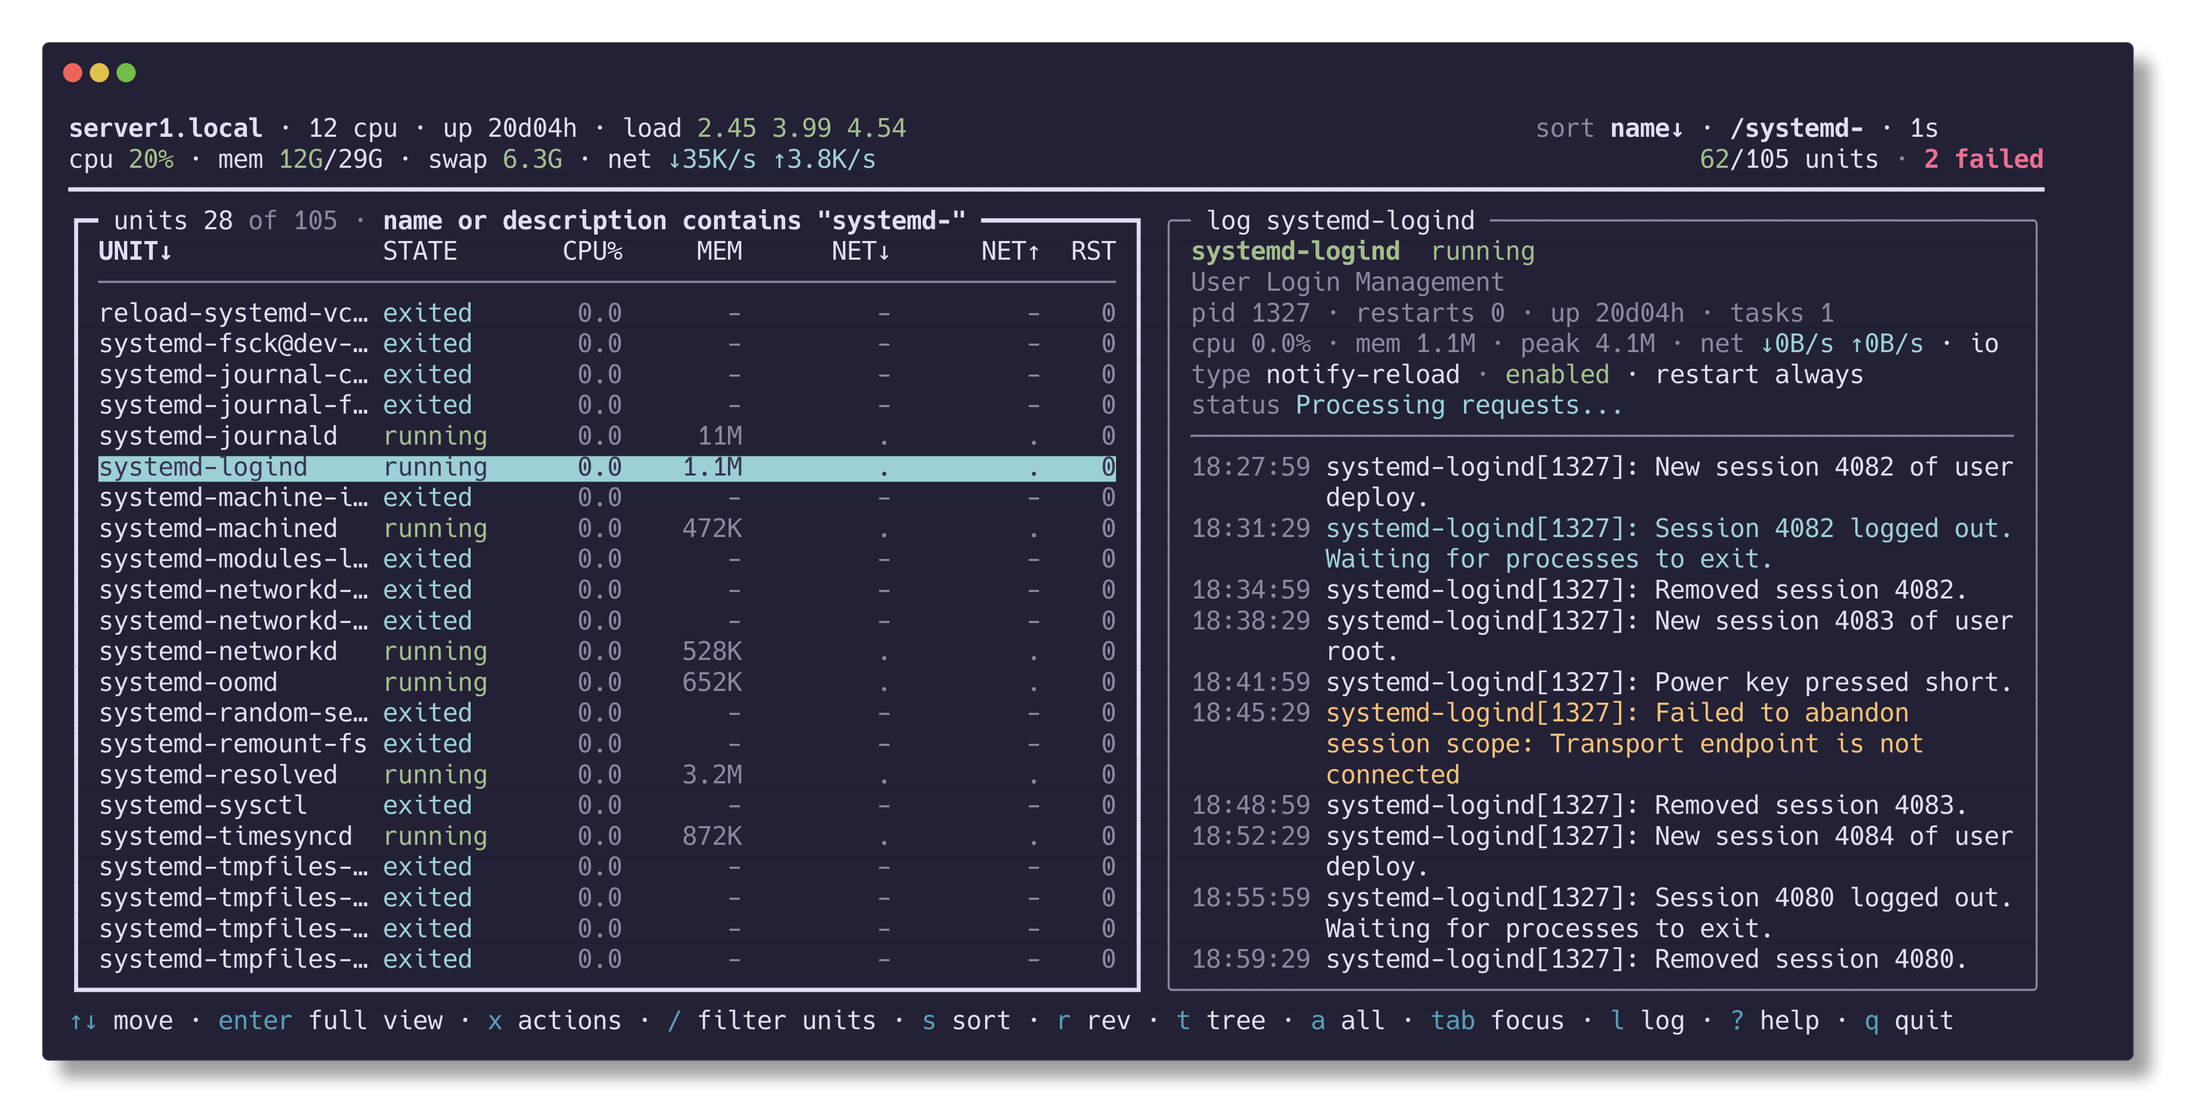
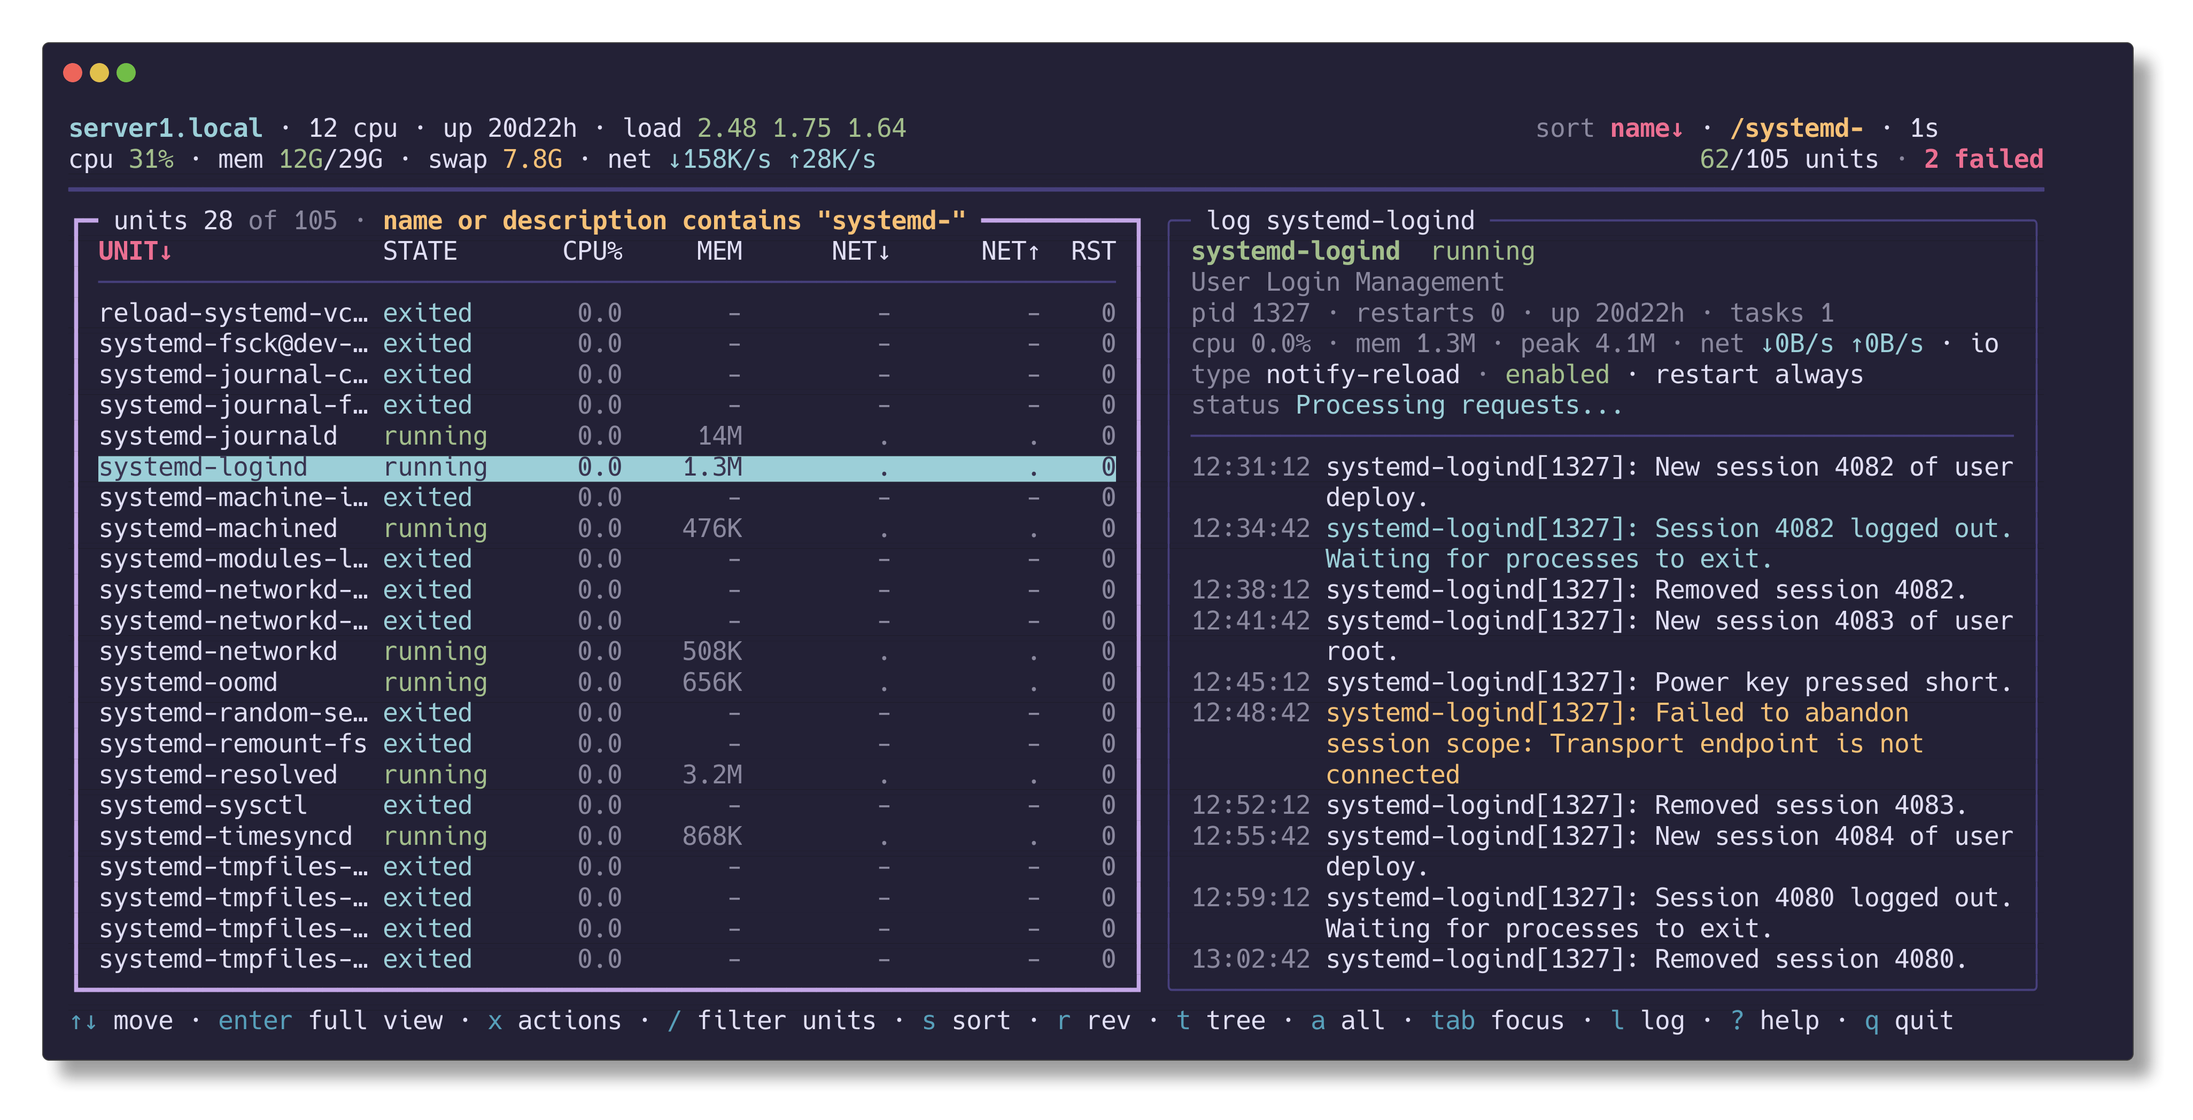
Put colour back where it costs nothing to read
The previous commit took colour off everything, which was more than the
problem needed: a frame, a spinner and a rule are not read, so a theme that
renders them weakly costs nothing — the focused frame is a heavier glyph
than the unfocused one either way. Magenta goes back on the focused frame,
the menu box, the spinners and the editor caret; colour 8 goes back on the
rules and the unfocused frame; the filter is yellow and bold again, which
is words and so a knowing exception, made on the grounds that a filter is a
mode you have to notice you are in.

The sorted column's title now says which way it sorts — red for high to
low, green for low to high, in the table and in the header's sort chip.
This is the one place those two mean a direction rather than health, and
the arrow beside them says the same thing, so nothing depends on reading
the colour.

The host name is cyan and bold, in the header and on the connecting screen:
it is the one heading worth a hue because it answers which machine you are
looking at, and cyan sits far from both the foreground and the magenta the
frames now use. On the startup screen the plain string is truncated first
and only what survives is coloured, since a narrow terminal eats the host
name from the right and the split can land inside the lead.

What stays colourless is what must be read: the remaining headings, column
titles, labels, timestamps, idle values, unit and slice names, log lines.

diff --git a/src/theme.go b/src/theme.go
@@ -7,39 +7,62 @@ import "github.com/charmbracelet/lipgloss"
 // says it is, so unitop matches the rest of their terminal and needs no
 // light/dark handling of its own.
 //
-// Colour is only ever *semantic* here. Five hues carry meaning:
+// Colour never carries something you have to *read*. Five hues carry meaning:
 //
-//	green   healthy, running
-//	yellow  in transition, or a number worth watching
-//	red     failed, or a number that is too high
+//	green   healthy, running — and a column sorted low to high
+//	yellow  in transition, a number worth watching, and the active filter
+//	red     failed, a number that is too high — and sorted high to low
 //	cyan    finished cleanly, and rates
 //	blue    keys and interactive hints
 //
-// Structure — headings, the sorted column, the focused frame, the filter —
-// is carried by *weight* instead: bold against faint, both on the terminal's
-// own foreground. That is not a stylistic preference, it is the only thing
-// that survives an arbitrary theme. Measured across two real ones:
+// The host name is cyan: it is the one heading that answers "which machine am I
+// looking at", it is short, bold and always in the same corner, so the hue is
+// worth the risk that a theme renders cyan weakly. Every other heading is
+// colourless.
+//
+// The host name is cyan: it is the one heading that answers "which machine am
+// I looking at", it is short, bold, and always in the same corner, so the hue
+// is worth what a weak cyan costs. Every other heading is colourless.
+//
+// Two more are decoration only, never text: magenta draws the focused frame,
+// the menu box, the spinners and the editor caret, and colour 8 draws the
+// rules and the unfocused frame. Both may be nearly invisible on some theme
+// and nothing is lost when they are — a frame is also a heavier glyph than
+// the unfocused one, and the sort arrow says the direction the colour shows.
+//
+// What must be read — headings, the host name, column titles, labels,
+// timestamps, idle values, unit and slice names, log lines — is the
+// terminal's own foreground: bold for emphasis, faint for below notice.
+// That is not a stylistic preference, it is the only thing that survives an
+// arbitrary theme. Measured across two real ones:
 //
 //	                 duskfox  latte
-//	magenta (5)         7.47   1.65   was headings and the focused frame
-//	yellow (3)          9.55   1.73   was the filter
-//	grey (8)            1.71   4.37   was every rule, frame and idle value
-//	default foreground 11.86   7.06   what all three became
+//	magenta (5)         7.47   1.65   frames and spinners — decoration
+//	yellow (3)          9.55   1.73   warnings, and the filter
+//	grey (8)            1.71   4.37   rules and the unfocused frame
+//	default foreground 11.86   7.06   everything there is to read
 //
 // Contrast against each theme's own background. A palette entry can fail on
 // either side — pale colours meant for a dark ground wash out on a light one,
-// and 8 is dark enough to be a background shade on a dark one — so anything
-// that must be *read* takes the foreground the user already reads everything
-// else in. Anything below notice is that same foreground, dimmed.
+// and 8 is dark enough to be a background shade on a dark one — which is why
+// what must be read takes the foreground the user already reads everything
+// else in, and why the two weakest hues are only ever decoration.
+//
+// The filter is the deliberate exception: it is yellow and it is words, so on
+// a light theme carrying a dark theme's palette it will be pale. That is a
+// choice — a filter is a mode you have to notice you are in, the pane it
+// applies to is titled with it, and it is bold besides.
 //
 // Never write a hex value or a 256-colour index: it would override the theme
 // and force the light/dark problem back in.
 var (
 	colDefault = lipgloss.NoColor{}   // the terminal's own foreground
+	colGrey    = lipgloss.Color("8")  // rules and frames only — never text
 	colRed     = lipgloss.Color("1")  //
 	colGreen   = lipgloss.Color("2")  //
 	colYellow  = lipgloss.Color("3")  //
 	colBlue    = lipgloss.Color("4")  //
+	colMagenta = lipgloss.Color("5")  // frames and spinners only — never text
 	colCyan    = lipgloss.Color("6")  //
 	colOrange  = lipgloss.Color("11") // bright yellow: the heat step above yellow
 	colSelBg   = lipgloss.Color("6")  // the selected row: black on cyan, as htop
@@ -53,20 +76,36 @@ var (
 // that ignores SGR 2 loses the hierarchy but keeps every word legible, which is
 // the right way round to fail.
 var (
-	stBase    = lipgloss.NewStyle()
-	stFaint   = lipgloss.NewStyle().Faint(true)
-	stHeader  = lipgloss.NewStyle().Bold(true)
-	stColHead = lipgloss.NewStyle() // plain: the sorted column is the one with weight
-	stSortCol = lipgloss.NewStyle().Bold(true)
-	stAccent  = lipgloss.NewStyle().Foreground(colCyan)
-	stKey     = lipgloss.NewStyle().Foreground(colBlue)
-	stAlert   = lipgloss.NewStyle().Foreground(colRed)
-	stBad     = lipgloss.NewStyle().Foreground(colRed).Bold(true)
-	stWarn    = lipgloss.NewStyle().Foreground(colYellow)
-	stGood    = lipgloss.NewStyle().Foreground(colGreen)
-	stBorder  = lipgloss.NewStyle().Faint(true)
-	stFilter  = lipgloss.NewStyle().Bold(true)
+	stBase     = lipgloss.NewStyle()
+	stFaint    = lipgloss.NewStyle().Faint(true)
+	stHeader   = lipgloss.NewStyle().Bold(true)
+	stHost     = lipgloss.NewStyle().Foreground(colCyan).Bold(true)
+	stColHead  = lipgloss.NewStyle() // plain: the sorted column is the one with weight
+	stSortDesc = lipgloss.NewStyle().Foreground(colRed).Bold(true)
+	stSortAsc  = lipgloss.NewStyle().Foreground(colGreen).Bold(true)
+	stAccent   = lipgloss.NewStyle().Foreground(colCyan)
+	stKey      = lipgloss.NewStyle().Foreground(colBlue)
+	stAlert    = lipgloss.NewStyle().Foreground(colRed)
+	stBad      = lipgloss.NewStyle().Foreground(colRed).Bold(true)
+	stWarn     = lipgloss.NewStyle().Foreground(colYellow)
+	stGood     = lipgloss.NewStyle().Foreground(colGreen)
+	stBorder   = lipgloss.NewStyle().Foreground(colGrey).Faint(true)
+	stFrame    = lipgloss.NewStyle().Foreground(colMagenta)
+	stFilter   = lipgloss.NewStyle().Foreground(colYellow).Bold(true)
 )
+
+// sortStyle colours the sorted column's title by which way it is sorted —
+// red for high to low, green for low to high — so the direction is legible
+// from the colour as well as from the arrow beside it. This is the one place
+// red and green are a direction rather than health; everywhere else they keep
+// their usual meaning, and nothing here is worse off if the colours are
+// missed, because the arrow already says it.
+func sortStyle(reverse bool) lipgloss.Style {
+	if reverse {
+		return stSortAsc
+	}
+	return stSortDesc
+}
 
 // heat ramps a magnitude across five steps, coolest to hottest:
 //

diff --git a/src/view.go b/src/view.go
@@ -307,15 +307,22 @@ func (m model) viewStartup() []string {
 
 	if m.err == "" {
 		frame := string(spinnerFrames[m.spinner%len(spinnerFrames)])
-		what := "reading systemd on " + target
+		lead := "reading systemd on "
 		if m.r.host != "" {
-			what = "connecting to " + target
+			lead = "connecting to "
 		}
 		// The spinner and its two spaces are three cells the host name cannot
 		// have; a long one is otherwise exactly what pushes this off the edge.
+		// Truncate the plain string, then colour what survived — the host name
+		// is the tail, so a narrow terminal eats it from the right and the
+		// split can land inside the lead.
+		line := truncRunes(lead+target+"…", max(6, m.width-3))
+		said := stBase.Render(line)
+		if len(line) > len(lead) {
+			said = stBase.Render(lead) + stHost.Render(line[len(lead):])
+		}
 		body = append(body,
-			stBase.Render(frame)+"  "+
-				stBase.Render(truncRunes(what+"…", max(6, m.width-3))),
+			stFrame.Render(frame)+"  "+said,
 			"",
 			stFaint.Render("q  quit"),
 		)
@@ -540,7 +547,7 @@ func (m model) viewHost() []string {
 		}
 	}
 
-	name := stHeader.Render(m.hostLabel)
+	name := stHost.Render(m.hostLabel)
 	if m.r.host != "" {
 		name += stFaint.Render(" (ssh)")
 	}
@@ -570,7 +577,7 @@ func (m model) viewHost() []string {
 			heat(h.SwapPct(), 1, 20, 50, 80).Render(humanBytes(h.SwapUsed)))
 	}
 	usage = append(usage, stFaint.Render("net ")+
-		lipgloss.NewStyle().Foreground(colCyan).Render("↓"+humanRateFull(h.NetIn)+" ↑"+humanRateFull(h.NetOut)))
+		stAccent.Render("↓"+humanRateFull(h.NetIn)+" ↑"+humanRateFull(h.NetOut)))
 
 	units := fmt.Sprintf("%s%s%s units",
 		stGood.Render(fmt.Sprint(active)), stFaint.Render("/"), stFaint.Render(fmt.Sprint(len(m.units))))
@@ -582,7 +589,7 @@ func (m model) viewHost() []string {
 	if m.reverse {
 		arrow = "↑"
 	}
-	mode := []string{stFaint.Render("sort ") + stHeader.Render(m.sortBy.String()+arrow)}
+	mode := []string{stFaint.Render("sort ") + sortStyle(m.reverse).Render(m.sortBy.String()+arrow)}
 	if m.tree {
 		mode = append(mode, stAccent.Render("tree"))
 	}
@@ -664,7 +671,7 @@ func framed(body []string, w, h int, title string, focused bool) []string {
 	st := stBorder
 	if focused {
 		tl, tr, bl, br, hz, edge = "┏", "┓", "┗", "┛", "━", "┃"
-		st = stBase
+		st = stFrame
 	}
 
 	head, used := st.Render(tl+hz), 2
@@ -782,7 +789,7 @@ func (m model) viewTable(width, height int) []string {
 			cell = padLeft(t, c.width)
 		}
 		if c.key == m.sortBy {
-			head = append(head, stSortCol.Render(cell))
+			head = append(head, sortStyle(m.reverse).Render(cell))
 		} else {
 			head = append(head, stColHead.Render(cell))
 		}
@@ -1253,7 +1260,7 @@ func (m model) emptyLogNotice() []string {
 		// Only for the moment before the first entries land, so a slow remote
 		// does not flash "nothing matches" and then fill in.
 		frame := string(spinnerFrames[m.spinner%len(spinnerFrames)])
-		return []string{stBase.Render(frame) +
+		return []string{stFrame.Render(frame) +
 			stFaint.Render(" reading the journal…")}
 
 	case !m.logFilt.empty():
@@ -1279,7 +1286,7 @@ func (m model) logTopMarker(width int) string {
 	switch {
 	case m.loadingOlder:
 		frame := string(spinnerFrames[m.spinner%len(spinnerFrames)])
-		return stBase.Render(frame) +
+		return stFrame.Render(frame) +
 			stWarn.Render(" loading earlier entries…")
 	case m.logLoadErr != "":
 		return stBad.Render("── could not load earlier entries: ") +
@@ -1484,7 +1491,7 @@ func (m model) menuBox() []string {
 	// draws exactly the viewport menuGeometry chose, and says when there is
 	// more above or below it.
 	_, _, w, first, visible := m.menuGeometry()
-	border := stBase
+	border := stFrame
 	title := " " + truncRunes(shortUnit(m.menu.unit), w-3-4) + " "
 	if first > 0 {
 		title = fmt.Sprintf(" ↑%d%s", first, title)
@@ -1586,7 +1593,7 @@ func (m model) viewFooter() string {
 		if m.filterLogs {
 			long, short, text = "show journal lines matching", "search log:", m.logFilt.grep
 		}
-		caret := stBase.Render("▏")
+		caret := stFrame.Render("▏")
 		typed := stFilter.Render(text)
 		for _, v := range []struct {
 			label string

diff --git a/src/theme_test.go b/src/theme_test.go
@@ -51,3 +51,19 @@ func TestHeatRamps(t *testing.T) {
 		}
 	}
 }
+
+// The sorted column says which way it is sorted twice over — the arrow and the
+// colour — so the colour must actually differ with direction, and must stay in
+// the palette like every other one.
+func TestSortStyleShowsDirection(t *testing.T) {
+	desc, asc := sortStyle(false), sortStyle(true)
+	if desc.GetForeground() != colRed {
+		t.Errorf("high to low should be red, got %v", desc.GetForeground())
+	}
+	if asc.GetForeground() != colGreen {
+		t.Errorf("low to high should be green, got %v", asc.GetForeground())
+	}
+	if !desc.GetBold() || !asc.GetBold() {
+		t.Error("the sorted column is the bold one, whichever way it sorts")
+	}
+}

diff --git a/CLAUDE.md b/CLAUDE.md
@@ -200,18 +200,30 @@ These are decisions, not accidents. Change them deliberately, not incidentally.
   unitop matches the rest of their terminal and needs no light/dark handling.
   Never write a hex value or a 256-colour index: it would override the theme
   and force the light/dark problem back in.
-- **Colour is only ever semantic; structure is carried by weight.** Five hues
-  mean something — green healthy, yellow watch, red wrong, cyan
-  finished-or-rate, blue keys — and everything else is the terminal's own
-  foreground, bold for emphasis and faint for anything below notice.
-  Headings, the sorted column, the focused frame and the filter used magenta,
-  yellow and colour 8; all three are unreadable on some real theme (magenta
-  1.65:1 and yellow 1.73:1 on a light one, colour 8 1.71:1 on a dark one),
-  and the theme is entitled to that — an index is a name, not a promise about
-  contrast. Only the foreground the user already reads everything else in is
-  safe everywhere. The measurements are in the `theme.go` header; a terminal
-  that ignores SGR 2 loses the hierarchy but keeps every word legible, which
-  is the right way round to fail.
+- **Colour never carries anything you have to read.** Five hues mean
+  something — green healthy, yellow watch, red wrong, cyan finished-or-rate,
+  blue keys — and two more are decoration only, never text: magenta draws the
+  focused frame, the menu box, the spinners and the caret, colour 8 draws the
+  rules and the unfocused frame. Both are nearly invisible on some real theme
+  and nothing is lost when they are, because a focused frame is also a heavier
+  glyph. Everything there is to read — headings, column titles, labels,
+  timestamps, idle values, unit and slice names, log lines — is the terminal's
+  own foreground, bold for emphasis and faint for below notice. The host name
+  is the one exception among headings: cyan and bold wherever it appears, header
+  and startup screen alike, because it answers which machine you are looking at
+  and is short and always in the same place.
+  Measured on two real themes, magenta is 1.65:1 and yellow 1.73:1 on a light
+  one and colour 8 is 1.71:1 on a dark one; an ANSI index is a name, not a
+  promise about contrast, and the theme is entitled to that. The numbers are
+  in the `theme.go` header. A terminal that ignores SGR 2 loses the hierarchy
+  but keeps every word legible, which is the right way round to fail.
+- **The filter is the one deliberate exception**: yellow, bold, and words.
+  A filter is a mode you have to notice you are in. It was made colourless
+  once and put back on request — leave it.
+- **The sorted column's title is red for high-to-low and green for
+  low-to-high** (`sortStyle()`), in the table and in the header's `sort`
+  chip. This is the one place red and green are a direction rather than
+  health; the arrow says the same thing, so nothing depends on the colour.
 - Magnitudes ramp through five steps via `heat()` — dim, green, yellow,
   orange, red — where orange is bright yellow, the one step that has no hue
   of its own. State comes from `stateStyle()`. Both return a **style**, not a

diff --git a/.claude/memory/project_palette_contrast.md b/.claude/memory/project_palette_contrast.md
@@ -28,12 +28,24 @@ there. This is not a bug in either theme — an ANSI index is a name, not a
 promise about contrast, which is exactly why unitop names indices in the first
 place.
 
-The consequence, now enforced in `theme.go`: **hue is only ever semantic, and
-structure is carried by weight.** Headings, the sorted column, the focused
-frame and the filter are bold on the default foreground; rules, timestamps,
-labels and idle values are that foreground dimmed (SGR 2). A terminal that
-ignores SGR 2 flattens the hierarchy but keeps every word legible — the right
-way round to fail — whereas colour 8 fails closed.
+The consequence, now enforced in `theme.go`: **colour never carries anything
+you have to read.** Headings, the host name, column titles, labels,
+timestamps, idle values, unit and slice names and log lines are the default
+foreground — bold for emphasis, faint for below notice (SGR 2). A terminal
+that ignores SGR 2 flattens the hierarchy but keeps every word legible, the
+right way round to fail; colour 8 fails closed.
+
+The host name is cyan and bold — the one heading with a hue, because it answers
+which machine you are looking at, and it is short and always in the same corner.
+
+Colour is kept everywhere it costs nothing: magenta for the focused frame,
+the menu box, the spinners and the editor caret, colour 8 for the rules and
+the unfocused frame — decoration that may vanish on a theme without loss,
+since the focused frame is a heavier glyph too. The filter is yellow bold by
+explicit choice even though it is words; it was made colourless once and put
+back. The sorted column title is red for high-to-low and green for
+low-to-high (`sortStyle()`), the one place those two mean a direction rather
+than health — the arrow says it as well, so the colour is never load-bearing.
 
 `heat()` and `stateStyle()` return a `lipgloss.Style` rather than a colour for
 this reason: their quietest step has no colour of its own.

diff --git a/CHANGELOG.md b/CHANGELOG.md
@@ -8,6 +8,20 @@ to change.
 
 ## [Unreleased]
 
+### Changed
+
+- **The host name is cyan** — in the header and on the connecting screen — the
+  one heading that carries a colour, because it answers which machine you are
+  looking at.
+- **The sorted column's title now says which way it sorts**: red for high to
+  low, green for low to high, in the table and in the header's `sort` chip.
+- **Colour is back everywhere it costs nothing to read.** The filter is yellow
+  and bold again; the focused pane frame, the menu box, the spinners and the
+  editor caret are magenta again; the rules and the unfocused frame are grey
+  again. What stays colourless is what you have to read — headings, the host
+  name, column titles, labels, timestamps, idle values, unit names and log
+  lines — because those are the ones a theme can render unreadably.
+
 ### Fixed
 
 - **The help screen no longer lets keys and clicks fall through to the
